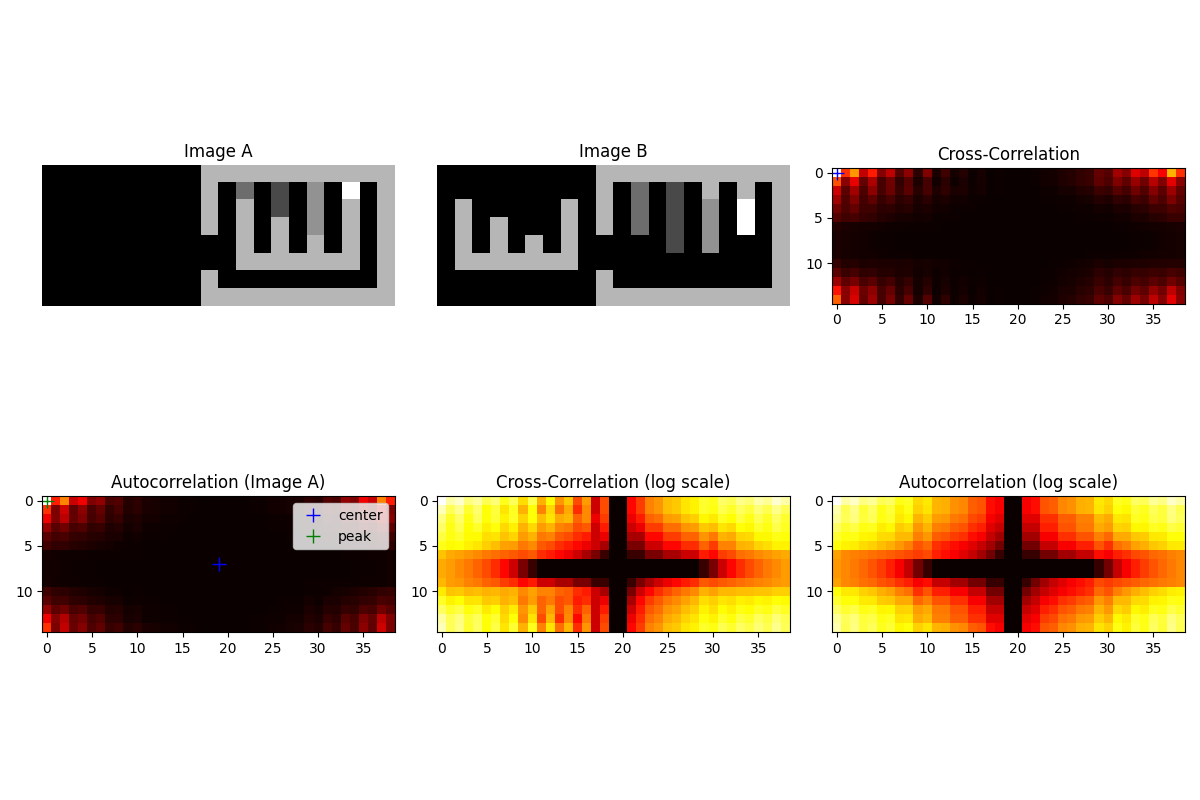
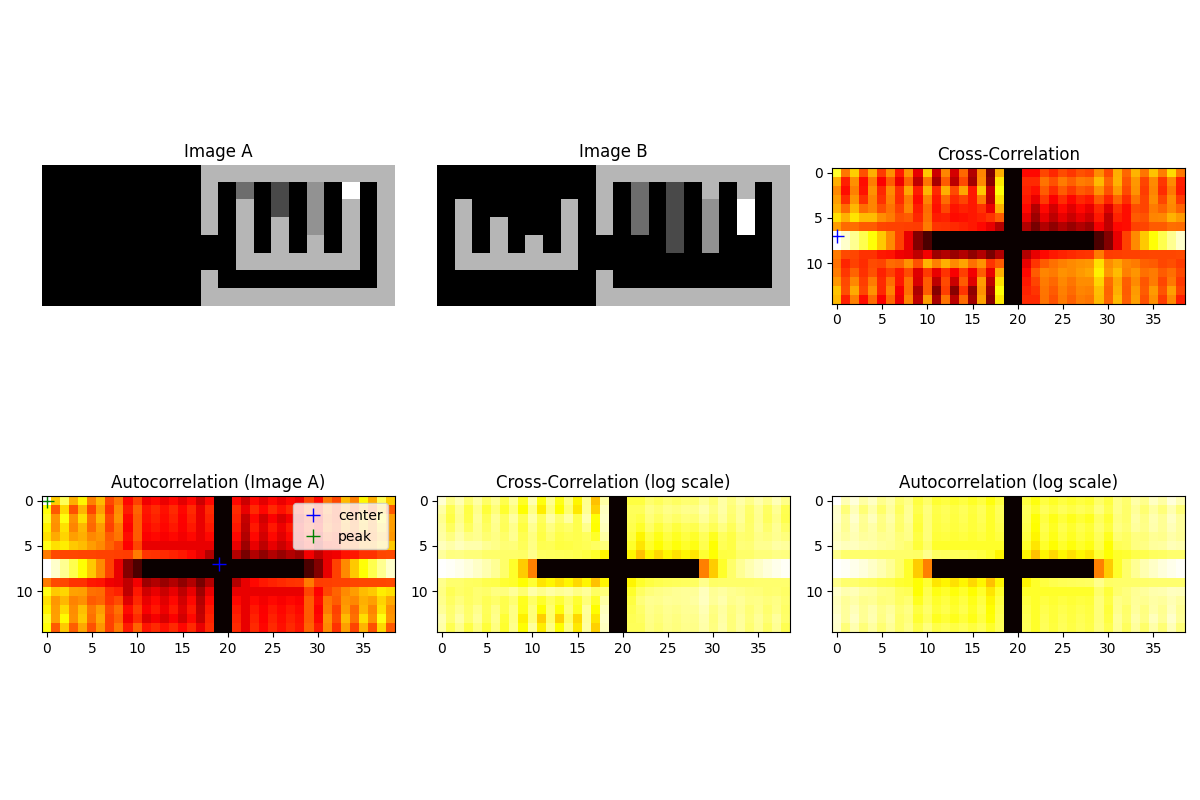
updates

Changed region(s): [[0.0308, 0.5938, 0.9867, 0.8125], [0.6783, 0.1875, 0.9867, 0.4062]]

diff --git a/correlation.py b/correlation.py
@@ -3,42 +3,52 @@ import matplotlib.pyplot as plt
 
 from classes import ArcTask
 
+def named_print(var):
+    # print(f"{var.__name__}:")
+    # print(var)
+    pass
+
 # This is categorical, not numerical
 # So only exact equality matters
 # This is what we want for ARC
-def fft_cross_correlation(image_a: np.ndarray, image_b: np.ndarray, ignore_colors: tuple[int] = ()) -> np.ndarray:
+def fft_cross_correlation(image_a: np.ndarray, image_b: np.ndarray) -> np.ndarray:
     EMPTY = 0
 
     # We wamt to reserve zero for empty, so shift 0-9 -> 1-10
-    image_a += 1
-    image_b += 1
+    # We don't want to edit original arrays if they contain 0's
+    # We don't want to copy and create a new array
+    # We want to allow images to be supplied with empties already present
+    # So treaat 0 as empty, do not calculate for it, but allow to be present
 
     h_a, w_a = image_a.shape
     h_b, w_b = image_b.shape
     out_h = h_a + h_b - 1
     out_w = w_a + w_b - 1
     
-    ignore_set = set(ignore_colors) | {EMPTY}
-
     # Get all unique colors from both images
     unique_colors = np.union1d(np.unique(image_a), np.unique(image_b))
+    unique_colors = unique_colors[unique_colors != EMPTY]  # Exclude empty
 
-    unique_colors = [color for color in unique_colors if color not in ignore_set]
+    for color in unique_colors:
+        if color < 1 or color > 10:
+            if color != EMPTY:
+                raise ValueError(f"Color value {color} out of expected range 1-10")
 
     # Accumulate correlation across all colors
     total_correlation = np.zeros((out_h, out_w))
     
     for color in unique_colors:
-        if color < 1 or color > 10:
-            raise ValueError(f"Color value {color} out of expected range 0-9")
         # Create binary masks for this color
         mask_a = (image_a == color).astype(float)
         mask_b = (image_b == color).astype(float)
-        
+        named_print(mask_a)
+
         # Pad masks
         a_padded = np.full((out_h, out_w), EMPTY)
+        named_print(a_padded)
         b_padded = np.full((out_h, out_w), EMPTY)
         a_padded[:h_a, :w_a] = mask_a
+        named_print(a_padded)
         b_padded[:h_b, :w_b] = mask_b
         
         # FFT cross-correlation for this color
@@ -47,22 +57,32 @@ def fft_cross_correlation(image_a: np.ndarray, image_b: np.ndarray, ignore_color
         product = fft_a * np.conj(fft_b)
 
         correlation = np.fft.ifft2(product).real
-        
+        # print("correlation\n", correlation)
+
         sum = correlation.sum()
         # if sum < 10000:
         total_correlation += correlation
-        print(f"Contribution from {color-1}: {sum:.2f}")
+        print(f"Contribution from {color}: {sum:.2f}")
     
     # Enhance peaks
-    total_correlation = total_correlation ** 2
+    nonempty_a = (image_a != EMPTY).astype(float)
+    nonempty_b = (image_b != EMPTY).astype(float)
 
-    return total_correlation
+    a_pad = np.zeros((out_h, out_w), float); a_pad[:h_a, :w_a] = nonempty_a
+    b_pad = np.zeros((out_h, out_w), float); b_pad[:h_b, :w_b] = nonempty_b
+
+    overlap_count = np.fft.ifft2(np.fft.fft2(a_pad) * np.conj(np.fft.fft2(b_pad))).real
+    overlap_count = np.clip(np.rint(overlap_count), 0, None)  # integerize, avoid tiny negatives
+    overlap_count = overlap_count / np.max(overlap_count[np.nonzero(overlap_count)])  # normalize to max 1
+    print(np.shape(overlap_count))
+    print(np.shape(total_correlation))
+    return total_correlation / overlap_count
 
 task = ArcTask.from_name("4c3d4a41")
 
-image_b = task.train_pairs[0].input
-image_a = task.train_pairs[0].output
-
+image_b = task.train_pairs[0].input + 1
+image_a = task.train_pairs[0].output + 1
+print(image_a)
 
 # Compute cross-correlation
 corr = fft_cross_correlation(image_a, image_b)
